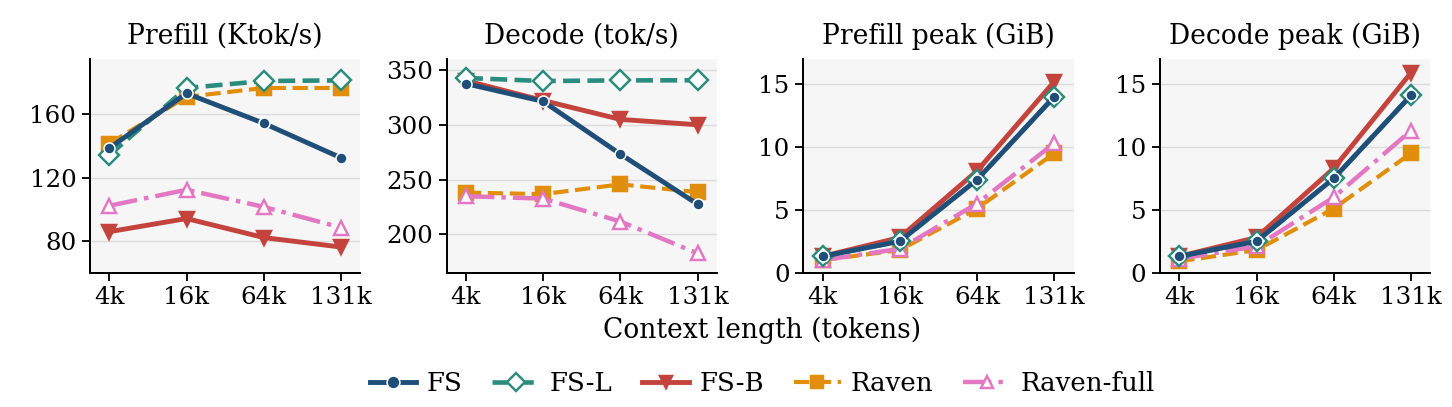
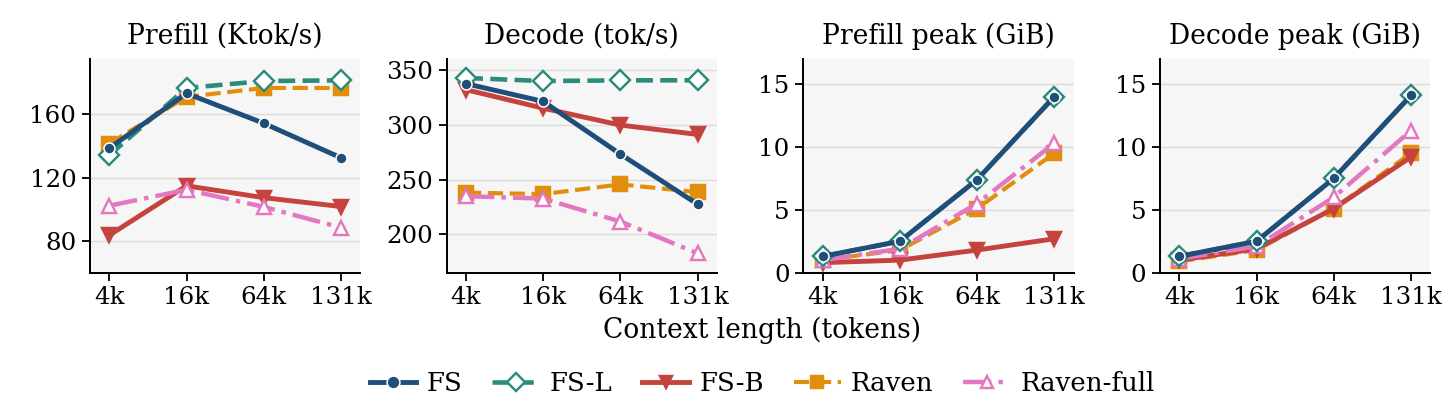
Update FS-B efficiency numbers in README and figure

diff --git a/README.md b/README.md
@@ -61,7 +61,7 @@ Both variants retrieve single needles at 262k — 64x the training length — wi
 | Raven-full | 102.3 / 112.4 / 101.6 / 88.5 | 234.8 / 232.6 / 211.7 / 182.7 | 1.0 / 1.9 / 5.5 / 10.3 | 1.1 / 2.1 / 6.0 / 11.3 |
 | **FS** | 138.7 / 173.3 / 154.4 / 132.6 | 337.5 / 321.3 / 273.2 / 227.5 | 1.3 / 2.5 / 7.4 / 14.0 | 1.3 / 2.5 / 7.5 / 14.1 |
 | **FS-L** (masked) | 134.3 / 176.7 / 181.1 / 181.5 | 342.7 / 339.9 / 340.5 / 340.6 | 1.3 / 2.5 / 7.4 / 14.0 | 1.3 / 2.5 / 7.5 / 14.1 |
-| **FS-B** | 85.9 / 94.2 / 82.2 / 76.2 | 340.2 / 322.1 / 304.9 / 300.0 | 1.3 / 2.8 / 8.1 / 15.2 | 1.3 / 2.8 / 8.3 / 15.9 |
+| **FS-B** | 83.7 / 114.9 / 107.4 / 101.8 | 332.0 / 315.1 / 299.7 / 291.2 | 0.8 / 1.0 / 1.8 / 2.7 | 1.0 / 1.9 / 5.1 / 9.2 |
 
 ## Models
 
@@ -106,8 +106,8 @@ The command downloads the checkpoint (and portable thresholds for FS-B), then in
 paper's benchmark with bf16, batch 1, one warm-up, three measured repetitions,
 256 decode steps, and no memory cap. It prints eager and CUDA-graph measurements;
 compare the graph columns with **154.4/132.6 Ktok/s prefill** and **273.2/227.5 tok/s decode** for `FreeSolo-341M`, **181.1/181.5 Ktok/s prefill** and
-**340.5/340.6 tok/s decode** for `FreeSolo-L-341M`, or **82.2/76.2 Ktok/s prefill** and
-**304.9/300.0 tok/s decode** for `FreeSolo-B-341M` at 64k/131k. GPU clocks, host load, and software versions
+**340.5/340.6 tok/s decode** for `FreeSolo-L-341M`, or **107.4/101.8 Ktok/s prefill** and
+**299.7/291.2 tok/s decode** for `FreeSolo-B-341M` at 64k/131k. GPU clocks, host load, and software versions
 affect timing. The JSON includes graph/eager logit checks and kernel fallback status.
 The reference stack uses PyTorch 2.5.1+cu121 and Triton 3.1.0.
 
